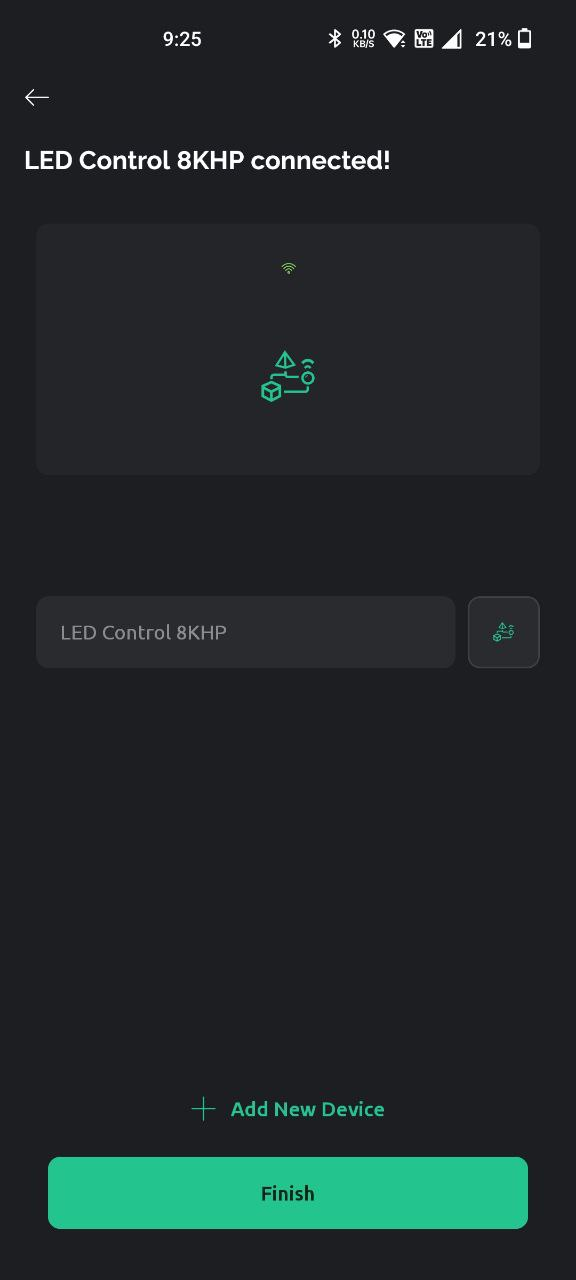
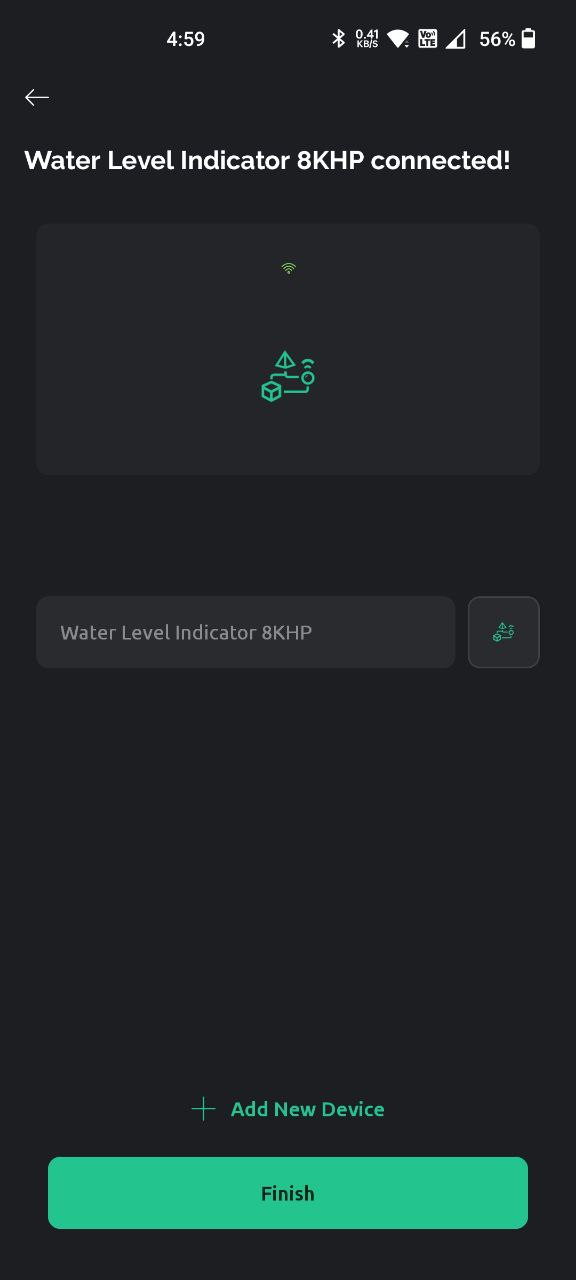
Water Wi-Fi

diff --git a/code/README.md b/code/README.md
@@ -1,24 +1,16 @@
 # Arduino Code Setup 💻
 
-This guide provides step-by-step instructions for setting up and uploading the Arduino code for the ESP8266 LED Interfacing project, including integration with the Blynk app for Wi-Fi control.
+This guide provides step-by-step instructions for setting up and uploading the Arduino code for the ESP8266 Water Level Depth Detection System, including integration with the Blynk app for Wi-Fi control.
 
 ## Step 1: Install Arduino Software
 
 1. **Download Arduino IDE**
 
-   ![Download Arduino IDE](../image/arduino_download.png)
-
 2. **Install Arduino IDE**
-
-   ![Install Arduino IDE](../image/arduino_install.png)
 
 3. **Launch Arduino IDE**
 
-   ![Launch Arduino IDE](../image/arduino_launch.png)
-
 4. **Open Arduino IDE Preferences**
-
-   ![Open Arduino IDE Preferences](../image/arduino_preferences.png)
 
 ## Step 2: Add ESP8266 Board to Arduino IDE
 
@@ -50,9 +42,9 @@ This guide provides step-by-step instructions for setting up and uploading the A
 
 ## Step 5: Open and Upload Code
 
-1. Open the Arduino code file (`LED_Interfacing.ino`) in the Arduino IDE.
+1. Open the Arduino code file (`Water_Level_Depth_Detection.ino`) in the Arduino IDE.
 
-2. Configure the code to include the Blynk library and Wi-Fi credentials.
+2. Configure the code to include the Blynk library, Wi-Fi credentials, and settings for the water level depth detection sensor.
 
 3. Verify and compile the code by clicking the checkmark icon (Verify) in the upper left corner of the Arduino IDE.
 
@@ -100,8 +92,8 @@ This guide provides step-by-step instructions for setting up and uploading the A
 
 ### Upload Code
 
-![Upload Code](../image/sc3.png)
+![Upload Code](../image/sc2.png)
 
 ### Final Output
 
-![Final Output](../image/sc4.png)
+![Final Output](../image/sc3.png)

diff --git a/README.md b/README.md
@@ -221,8 +221,8 @@ Blynk is a platform that allows you to build IoT applications easily. Follow the
 <br><br>
 
 <div style="margin-top: 20px; border: 2px solid white; padding: 10px;">
-  <img src="./image/image4.png" alt="Mobile Screenshot 3" width="400" style="float: left; margin-right: 20px;">
-  <img src="./image/image3.png" alt="Mobile Screenshot 4" width="400" style="float: right; margin-left: 20px;">
+  <img src="./image/image3.png" alt="Mobile Screenshot 3" width="400" style="float: left; margin-right: 20px;">
+  <img src="./image/image4.png" alt="Mobile Screenshot 4" width="400" style="float: right; margin-left: 20px;">
 </div>
 
 <br><br>
